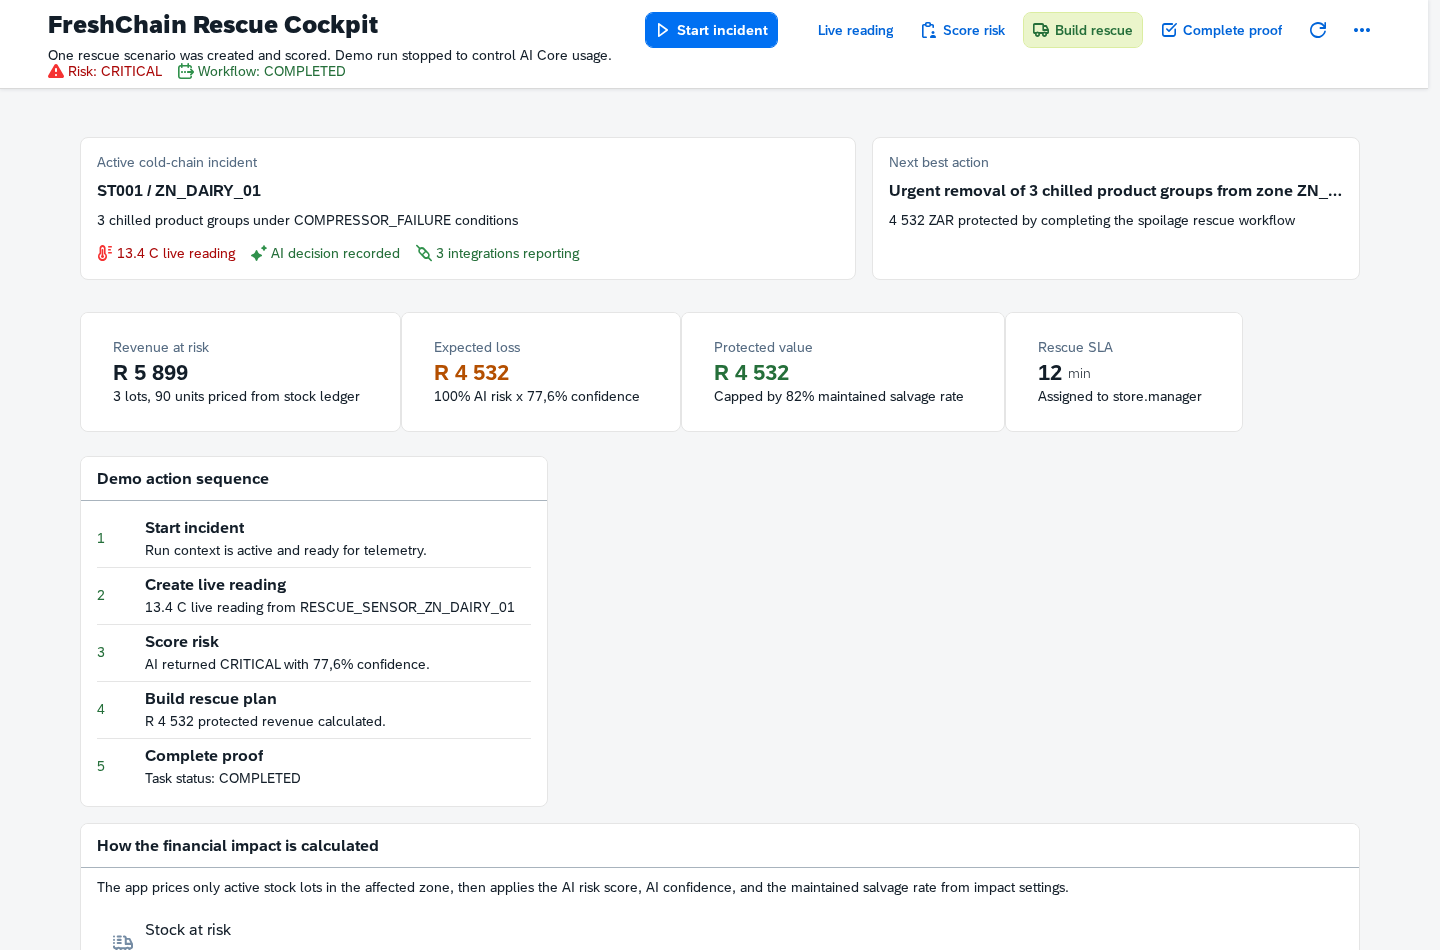
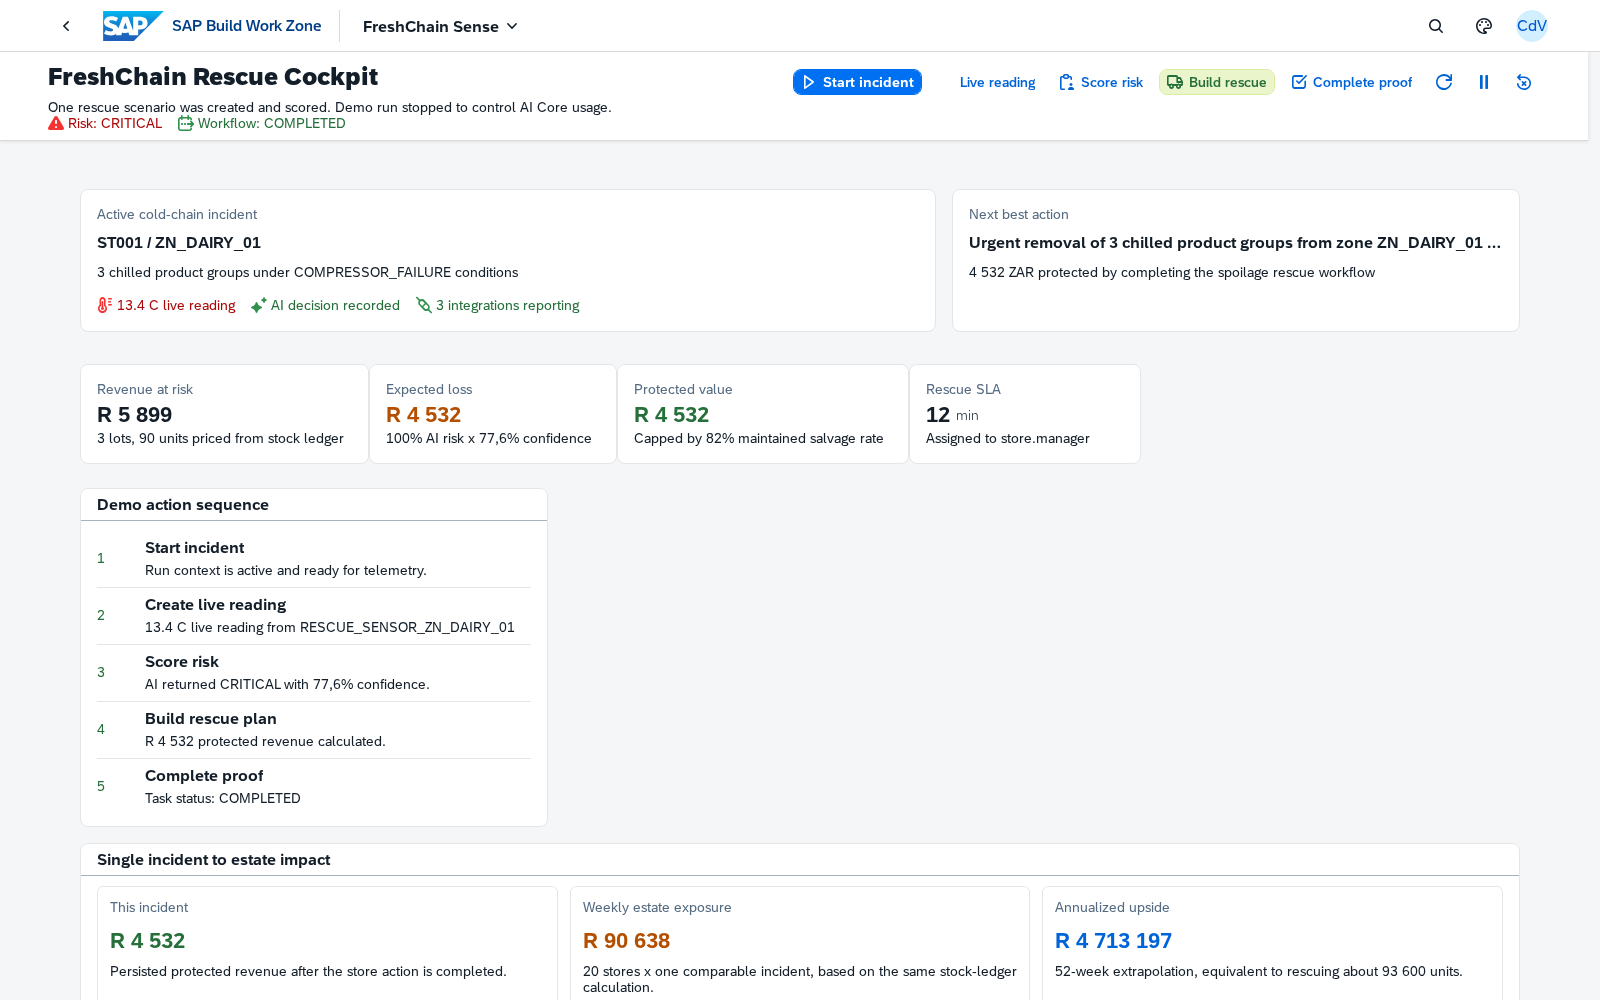
Strengthen rescue cockpit demo impact

diff --git a/app/freshchain-overview/webapp/controller/App.controller.js b/app/freshchain-overview/webapp/controller/App.controller.js
@@ -164,6 +164,7 @@ sap.ui.define([
       const score = Number(risk.score || scenario.spoilageProbability || 0);
       const confidence = Number(risk.confidence || scenario.confidence || 0);
       const averageUnitRetail = affectedUnits ? stockAtRisk / affectedUnits : 0;
+      const estateImpact = this._estateImpact(protectedValue, affectedUnits);
       const taskStatus = task.status || "No task yet";
       const workflowState = this._stateForTask(taskStatus);
       const successfulIntegrations = integrations.filter(function (row) {
@@ -202,8 +203,45 @@ sap.ui.define([
         affectedStockLabel: lotCount ? lotCount + " lots / " + this._formatQuantity(affectedUnits) + " units / " + (scenario.productName || "mixed chilled stock") : "No rescue stock selected yet",
         calculationSummary: scenario.calculationSummary || "Financial proof appears once the rescue scenario is generated.",
         financialLines: this._financialLines(stockAtRisk, expectedLoss, protectedValue, affectedUnits, averageUnitRetail, score, confidence, salvageRate),
+        scaleMetrics: estateImpact.metrics,
+        scaleAssumption: estateImpact.assumption,
         steps: this._steps(status, reading, risk, scenario, task)
       });
+    },
+
+    _estateImpact: function (protectedValue, affectedUnits) {
+      const incidentValue = Number(protectedValue || 0);
+      const units = Number(affectedUnits || 0);
+      const storeCount = 20;
+      const weeklyIncidentsPerStore = 1;
+      const weeksPerYear = 52;
+      const weeklyEstateValue = incidentValue * storeCount * weeklyIncidentsPerStore;
+      const annualEstateValue = weeklyEstateValue * weeksPerYear;
+      const weeklyUnits = units * storeCount * weeklyIncidentsPerStore;
+
+      return {
+        assumption: "Scale scenario: one comparable cold-chain incident per store per week across a 20-store estate. The live proof remains the single ST001 movement; these figures show why the same control loop matters at chain scale.",
+        metrics: [
+          {
+            title: "This incident",
+            value: this._formatCurrency(incidentValue),
+            detail: "Persisted protected revenue after the store action is completed.",
+            state: "Success"
+          },
+          {
+            title: "Weekly estate exposure",
+            value: this._formatCurrency(weeklyEstateValue),
+            detail: storeCount + " stores x one comparable incident, based on the same stock-ledger calculation.",
+            state: "Warning"
+          },
+          {
+            title: "Annualized upside",
+            value: this._formatCurrency(annualEstateValue),
+            detail: "52-week extrapolation, equivalent to rescuing about " + this._formatQuantity(weeklyUnits * weeksPerYear) + " units.",
+            state: "Information"
+          }
+        ]
+      };
     },
 
     _financialLines: function (stockAtRisk, expectedLoss, protectedValue, affectedUnits, averageUnitRetail, score, confidence, salvageRate) {

diff --git a/app/freshchain-overview/webapp/css/style.css b/app/freshchain-overview/webapp/css/style.css
@@ -30,6 +30,21 @@
   width: 100%;
 }
 
+.fcRescueCockpit .fcScaleGrid {
+  gap: 0.75rem;
+  width: 100%;
+}
+
+.fcRescueCockpit .fcScaleMetric {
+  box-sizing: border-box;
+  flex: 1 1 12rem;
+  min-width: 12rem;
+  padding: 0.75rem;
+  border: 1px solid var(--sapList_BorderColor);
+  border-radius: 0.375rem;
+  background: var(--sapList_Background);
+}
+
 .fcRescueCockpit .fcKpiPanel {
   box-sizing: border-box;
   flex: 1 1 15rem;

diff --git a/docs/demo-guide/FreshChain_Hackathon_Demo_Guide.md b/docs/demo-guide/FreshChain_Hackathon_Demo_Guide.md
@@ -36,10 +36,11 @@ In the captured live run:
 **Say:** Show the executive view. Call out protected revenue, risk by zone, active rescue, store task, and BTP readiness as the first business signals.  
 **Concrete outcome:** This is the command-center view for an operations manager deciding where to intervene.
 
-### 1:20-1:45 — Open FreshChain Sense / Rescue Cockpit and press Start
-![Open FreshChain Sense / Live Demo and press Start](screenshots/03-live-demo-running.png)
+### 1:20-1:45 — Open FreshChain Rescue Cockpit and press Start
+![Open FreshChain Rescue Cockpit and press Start](screenshots/03-live-demo-running.png)
 
-**Button/path:** Open FreshChain Sense / Rescue Cockpit and press Start.  
+**Button/path:** Open FreshChain Rescue Cockpit from the Work Zone tile currently labelled FreshChain Sense, then press Start incident.
+
 **Say:** Press Start. Explain that the demo run is now accepting live events and actions.  
 **Concrete outcome:** This begins a controlled cold-chain incident run.
 
@@ -61,10 +62,13 @@ In the captured live run:
 ![Press Run Rescue, then open Rescue](screenshots/06-live-demo-rescue.png)
 
 **Button/path:** Press Build rescue, then read the KPI row and financial calculation panel.  
-**Say:** Press Build rescue. Explain the business outcome: 3 affected lots, 90.000 units, R 5 899 stock at risk, R 4 532 expected loss, and R 4 532 protected value if the store action is completed.  
+**Say:** Press Build rescue. Explain the business outcome: 3 affected lots, 90.000 units, R 5 899 stock at risk, R 4 532 expected loss, and R 4 532 protected value if the store action is completed. Then show the estate-impact panel: the persisted proof is one incident, while the scale scenario shows why the same control loop matters across stores.
+
 **Concrete outcome:** The app converts AI risk into financial impact and a recommended rescue action.
 
 **Financial proof to explain:** Stock at risk comes from active stock lots in the affected zone priced from the stock ledger. Expected loss is `stock at risk x AI risk score x AI confidence`. Protected value is the lower of expected loss and the salvage cap, where the salvage cap is `stock at risk x maintained salvage rate`. In this run: `R 5 899 x 100% x 77.6% = R 4 532`; the 82% salvage cap is higher, so protected value is R 4 532.
+
+**Scale proof to explain:** The estate-impact panel is an explicit extrapolation, not hidden persisted data. It uses the proven single-incident value and shows a 20-store scenario with one comparable incident per store per week, so judges can see both audited proof and board-level potential.
 
 ### 3:45-4:25 — Open Task and press Complete Task
 ![Open Task and press Complete Task](screenshots/08-live-demo-completed.png)
@@ -121,9 +125,9 @@ In the captured live run:
 
 | Area | Observed issue | Impact on prize demo | Workaround for panel | Recommended fix |
 |---|---|---|---|---|
-| Work Zone first impression | Work Zone launches and shows FreshChain apps, but tiles are mostly static/blank and do not show dynamic KPI numbers. | The first screen proves BTP deployment, but does not itself communicate business value. | Spend less than a minute on Work Zone, then open Control Tower and Live Demo for value proof. | Configure Work Zone dynamic tiles/cards for protected revenue, stock at risk, rescue proof, and waste avoided. |
-| Work Zone app naming | The live demo shell still appears as `FreshChain Sense` in Work Zone even though the deployed app title is now `FreshChain Rescue Cockpit`. | Judges may not immediately know this is the main live-action demo app. | Verbally introduce it as “FreshChain Sense, our Rescue Cockpit.” | Sync/update Work Zone content so the tile and shell title read `FreshChain Rescue Cockpit`. |
-| Business value scale | The captured run proves the flow with about R 4,532 protected value. This is concrete, but modest for an executive hackathon story. | Judges may see the impact as operationally valid but not transformative enough. | Frame it as one store-zone incident and extrapolate across stores, days, and categories. | Add an executive annualized/same-day rollup KPI for multi-store avoided waste and margin protection. |
+| Work Zone first impression | Work Zone launches and shows FreshChain apps, but tiles are mostly static/blank and do not show dynamic KPI numbers. | The first screen proves BTP deployment, but does not itself communicate business value. | Spend less than a minute on Work Zone, then open Control Tower and Rescue Cockpit for value proof. | Configure Work Zone dynamic tiles/cards for protected revenue, stock at risk, rescue proof, and waste avoided. |
+| Work Zone app naming | Content Manager now has a local `FreshChain Rescue Cockpit` app assigned to the `FreshChain Command` group and `Everyone` role, but the runtime home page still paints the old `FreshChain Sense` label until the site page/cache is refreshed. The tile launches the correct local app ID. | Judges may not immediately know this is the main live-action demo app. | Verbally introduce the stale-labelled tile as the Rescue Cockpit; the opened app title and runtime content are correct. | Republish/refresh the Work Zone site page so the home tile metadata catches up with the local content item. |
+| Business value scale | The cockpit now shows a single-incident proof plus a clearly-labelled 20-store extrapolation. The extrapolation is directional, not persisted chain-wide evidence. | Judges can understand upside, but may ask what is real versus assumed. | Say: “The R4,532 is persisted proof; the annualized panel is the business-case scenario using the same calculation.” | Later, populate estate-level KPIs from multi-store historical incidents instead of a demo assumption. |
 | Operations/Prove depth | Operations, Prove, Monitoring, and Ingestion Errors show useful Fiori surfaces, but the strongest story is still in the Live Demo cockpit. | Secondary apps can feel like supporting lists rather than dramatic action screens. | Keep these screens short and only use them as traceability proof. | Add clearer default filters, object titles, and value-focused columns for panel-ready screenshots. |
 | Headless Work Zone screenshots | Work Zone loads the Rescue Cockpit iframe and app resources, but headless screenshots intermittently paint only the iframe header while the DOM and app text are present. | Presentation screenshots of detailed cockpit steps are captured from a temporary shell instead of Work Zone chrome. | For the panel, open the cockpit manually from Work Zone; the app itself loads and actions are live. | Validate final manual browser run and, if needed, use native browser screenshots instead of headless capture. |
 